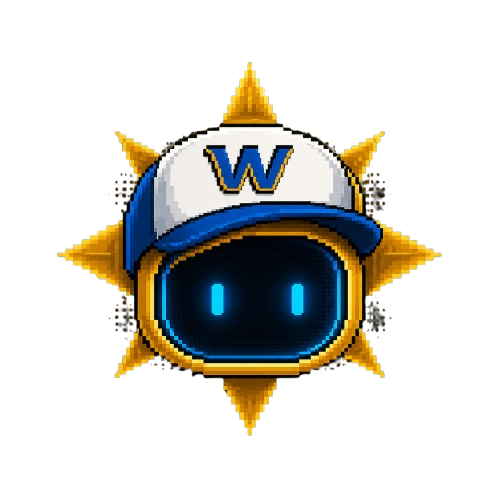
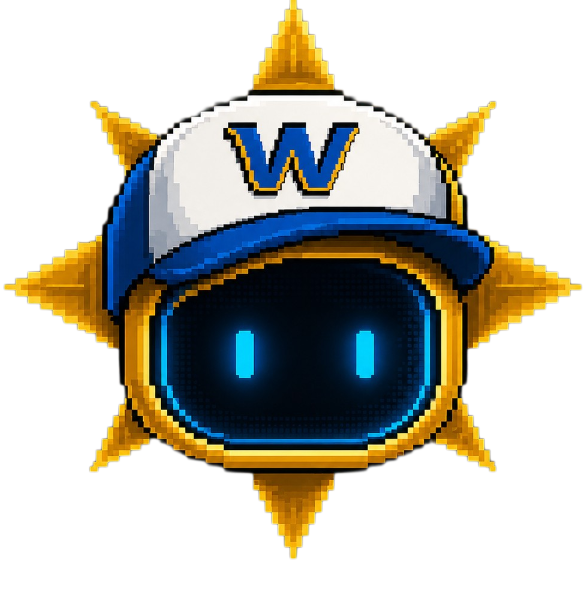
feat: connect 6 SUN BOT state images to contexts
Renamed images to URL-friendly names:
- sunbot.png (Original — idle/default)
- sunbot-feliz.png (Happy — welcome, response done)
- sunbot-pensando.png (Thinking — while streaming)
- sunbot-cargando.png (Loading — post-login loader)
- sunbot-escribiendo.png (Writing — when user types, available)
- sunbot-error.png (Error — when response failed)

Connected:
- WelcomeScreen: now uses sunbot-feliz.png (cheerful greeting)
- Post-login loader: uses sunbot-cargando.png with breathing halo
- ChatMessage IA Avatar: dynamic state
  * Streaming → sunbot-pensando.png + pulsing halo
  * Done → sunbot-feliz.png
  * Error (detects [ERROR_TYPE:] tag) → sunbot-error.png + red halo
- Strips [ERROR_TYPE:xxx] marker from displayed content

Sidebar logo and branding still use sunbot.png (default neutral state).
sunbot-escribiendo.png available for future use (mascot bottom-left panel).

diff --git a/src/components/ChatMessage.tsx b/src/components/ChatMessage.tsx
@@ -87,24 +87,40 @@ function AsesorAvatar({ email }: { email: string }) {
   );
 }
 
-// Avatar del SUN BOT IA (con halo naranja)
-function IAAvatar() {
+// Avatar del SUN BOT IA — cambia según estado
+function IAAvatar({ isStreaming, isError }: { isStreaming?: boolean; isError?: boolean }) {
+  // Selecciona la imagen según el estado
+  const src = isError
+    ? '/sunbot-error.png'
+    : isStreaming
+      ? '/sunbot-pensando.png'
+      : '/sunbot-feliz.png';
+
   return (
     <div className="relative flex-shrink-0" style={{ width: 40, height: 40 }}>
       <div
         className="absolute inset-0 rounded-full"
         style={{
           background:
-            'radial-gradient(circle, rgba(247,148,29,0.55) 0%, rgba(247,148,29,0.15) 50%, transparent 75%)',
+            isError
+              ? 'radial-gradient(circle, rgba(220,80,80,0.55) 0%, rgba(220,80,80,0.15) 50%, transparent 75%)'
+              : 'radial-gradient(circle, rgba(247,148,29,0.55) 0%, rgba(247,148,29,0.15) 50%, transparent 75%)',
           filter: 'blur(8px)',
+          animation: isStreaming ? 'avatarPulse 1.4s ease-in-out infinite' : undefined,
         }}
       />
       <img
-        src="/sunbot.png"
+        src={src}
         alt="Windmar AI"
-        className="mascot-img relative z-10 w-10 h-10 object-contain"
+        className="mascot-img relative z-10 w-10 h-10 object-contain transition-opacity duration-300"
         style={{ imageRendering: 'pixelated' }}
       />
+      <style>{`
+        @keyframes avatarPulse {
+          0%, 100% { opacity: 0.55; transform: scale(1); }
+          50%       { opacity: 1; transform: scale(1.1); }
+        }
+      `}</style>
     </div>
   );
 }
@@ -139,10 +155,15 @@ export function ChatMessage({ message, isStreaming, asesorEmail = '' }: Props) {
     );
   }
 
+  // Detecta si el mensaje contiene marcador de error
+  const isErrorMessage = message.content.includes('[ERROR_TYPE:');
+  // Limpia el marcador del display
+  const displayContent = message.content.replace(/\n*\[ERROR_TYPE:[^\]]+\]/g, '');
+
   // IA — avatar SUN BOT a la izquierda + burbuja
   return (
     <div className="flex justify-start gap-3 mb-6">
-      <IAAvatar />
+      <IAAvatar isStreaming={isStreaming} isError={isErrorMessage} />
       <div className="flex flex-col items-start min-w-0 max-w-[85%] sm:max-w-[80%]">
         <div
           className="relative rounded-2xl px-5 sm:px-7 py-5 sm:py-6 text-[15px] sm:text-[15.5px] text-gray-800 dark:text-gray-100 whitespace-pre-wrap leading-relaxed bg-white dark:bg-[#142033] border border-[#dde8f5] dark:border-white/[0.06] w-full"
@@ -159,7 +180,7 @@ export function ChatMessage({ message, isStreaming, asesorEmail = '' }: Props) {
             }}
           />
           <div className="pl-2">
-            {renderContent(message.content)}
+            {renderContent(displayContent)}
             {isStreaming && (
               <span className="inline-block w-[2px] h-[14px] bg-[#F7941D] ml-1 align-middle animate-pulse" />
             )}

diff --git a/src/App.tsx b/src/App.tsx
@@ -332,7 +332,7 @@ export default function App() {
 
     return (
       <div className="min-h-screen flex flex-col items-center justify-center bg-[#eef4fa] dark:bg-[#0a1628] px-4">
-        {/* SUN BOT con halo respirando */}
+        {/* SUN BOT cargando con halo respirando */}
         <div className="relative flex items-center justify-center mb-5" style={{ width: 100, height: 100 }}>
           <div
             className="absolute inset-0 rounded-full"
@@ -344,8 +344,8 @@ export default function App() {
             }}
           />
           <img
-            src="/sunbot.png"
-            alt="Windmar AI"
+            src="/sunbot-cargando.png"
+            alt="Windmar AI cargando"
             className="mascot-img relative z-10 w-20 h-20 sm:w-24 sm:h-24 object-contain drop-shadow-lg"
             style={{ imageRendering: 'pixelated' }}
           />

diff --git a/src/components/WelcomeScreen.tsx b/src/components/WelcomeScreen.tsx
@@ -35,7 +35,7 @@ export function WelcomeScreen({ onSend, disabled, onTypingChange }: Props) {
           }}
         />
         <img
-          src="/sunbot.png"
+          src="/sunbot-feliz.png"
           alt="Windmar AI"
           className="mascot-img relative z-10 object-contain drop-shadow-2xl"
           style={{